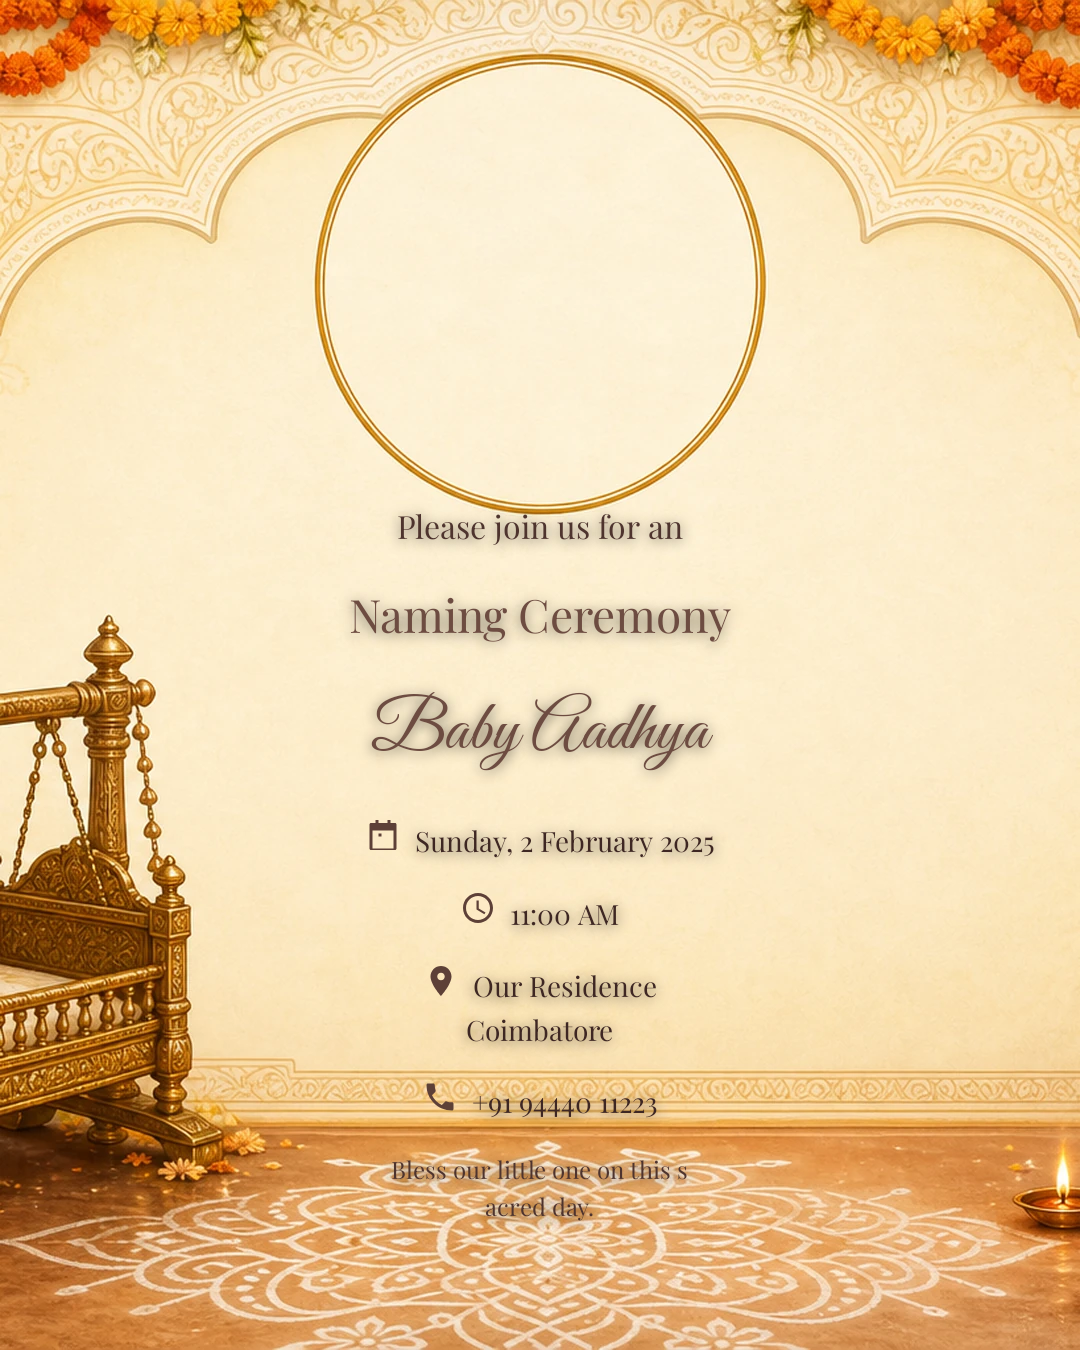
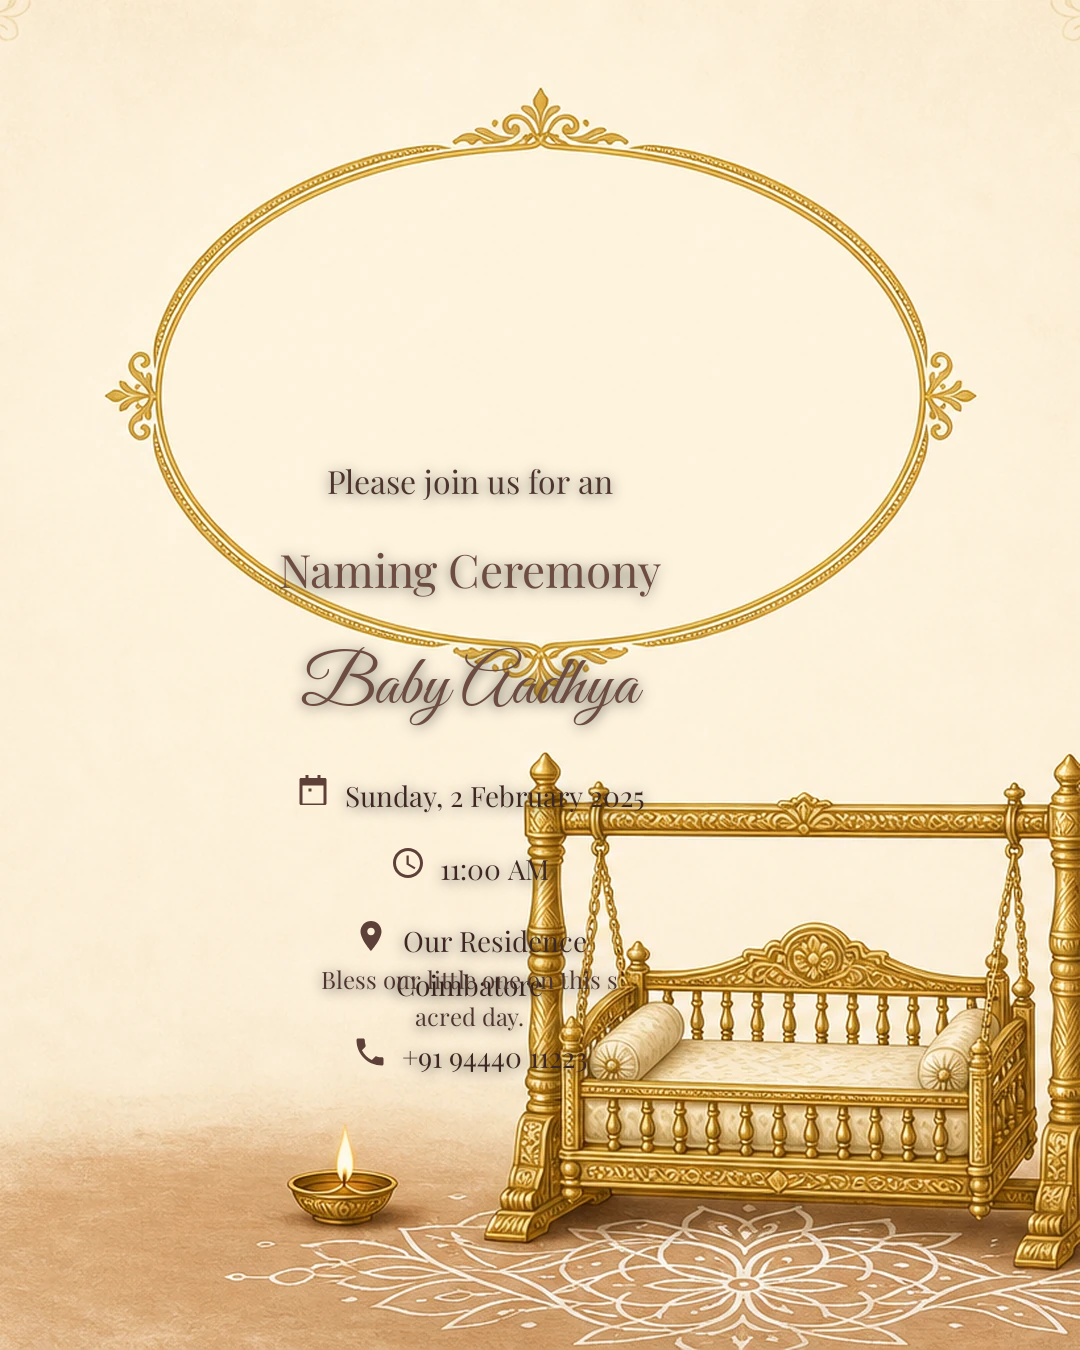
Fix naming_01: full palna cradle visible, horizontal oval photo
Replace cropped-circle redesign with new artwork showing the complete
golden cradle inside the card. Restore horizontal oval photo slot and
keep text left of the cradle so details do not overlap the palna.

diff --git a/app/src/main/java/com/vaangainvite/core/image/InvitationLayout.kt b/app/src/main/java/com/vaangainvite/core/image/InvitationLayout.kt
@@ -82,12 +82,12 @@ internal object InvitationLayout {
         "puberty_01" to TextZoneSpec(left = 290f, right = 790f, topNoPhoto = 280f, topWithPhoto = 492f),
         "naming_01" to TextZoneSpec(
             left = 200f,
-            right = 880f,
-            topNoPhoto = 500f,
-            topWithPhoto = 518f,
-            bottom = 1230f,
-            messageBottom = 1180f,
-            photoTextGap = 14f
+            right = 740f,
+            topNoPhoto = 455f,
+            topWithPhoto = 468f,
+            bottom = 1040f,
+            messageBottom = 1000f,
+            photoTextGap = 12f
         ),
         "naming_02" to TextZoneSpec(
             left = 230f,

diff --git a/app/src/main/java/com/vaangainvite/core/image/InvitationPhotoPlacement.kt b/app/src/main/java/com/vaangainvite/core/image/InvitationPhotoPlacement.kt
@@ -95,8 +95,8 @@ internal object InvitationPhotoPlacement {
         "engagement_04" to Spec(RectF(400f, 175f, 680f, 520f), Mask.HEX_MEDALLION),
         "engagement_05" to Spec(RectF(408f, 188f, 672f, 508f), Mask.CEREMONY_ARCH),
 
-        // Naming — each mask matched to new artwork (not baby-shower shapes)
-        "naming_01" to Spec(RectF(378f, 158f, 702f, 478f), Mask.MEDALLION_CIRCLE),
+        // Naming — masks aligned to each background artwork
+        "naming_01" to Spec(RectF(285f, 208f, 795f, 448f), Mask.LANDSCAPE_OVAL),
         "naming_02" to Spec(
             bounds = RectF(368f, 148f, 712f, 492f),
             mask = Mask.PORTRAIT_OVAL,

diff --git a/app/src/main/java/com/vaangainvite/data/repository/TemplateRepository.kt b/app/src/main/java/com/vaangainvite/data/repository/TemplateRepository.kt
@@ -818,7 +818,7 @@ InvitationTemplate(
             id = "naming_01",
             categoryId = "naming",
             title = "Palna & Marigold",
-            description = "Brass cradle, diyas, kolam — classic Namakaranam look.",
+            description = "Full golden palna, horizontal oval photo, kolam floor.",
             resId = R.drawable.bg_naming_01,
             primaryColor = 0xFF6D4C41.toInt()
         ),

diff --git a/docs/samples/README.md b/docs/samples/README.md
@@ -2,8 +2,10 @@
 
 | File | Description |
 |------|-------------|
-| `naming_01_sample.png` | **Template preview** — all text filled, empty top ring (matches in-app look before photo upload). |
-| `naming_01_with_photo.png` | Same fields with a sample baby photo in the top medallion. |
+| `naming_01_sample.png` | **Palna & Marigold** — horizontal oval at top, **full golden cradle** visible bottom-left, kolam floor. Text only (empty oval). |
+| `naming_01_with_photo.png` | Same card with sample baby photo in the horizontal oval. |
+
+**Note:** `naming_01` uses the original artwork with the complete palna; a later redesign had cropped the cradle at the left edge — that version was reverted.
 
 Regenerate:
 
